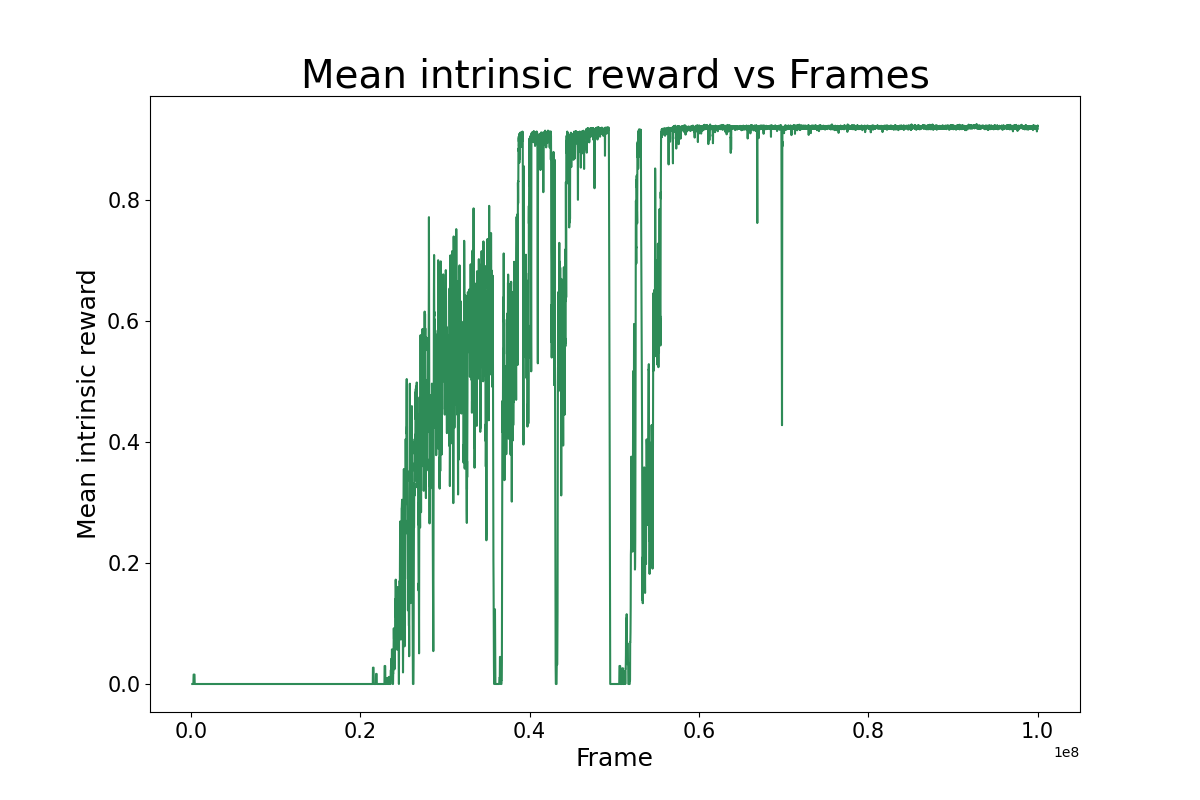
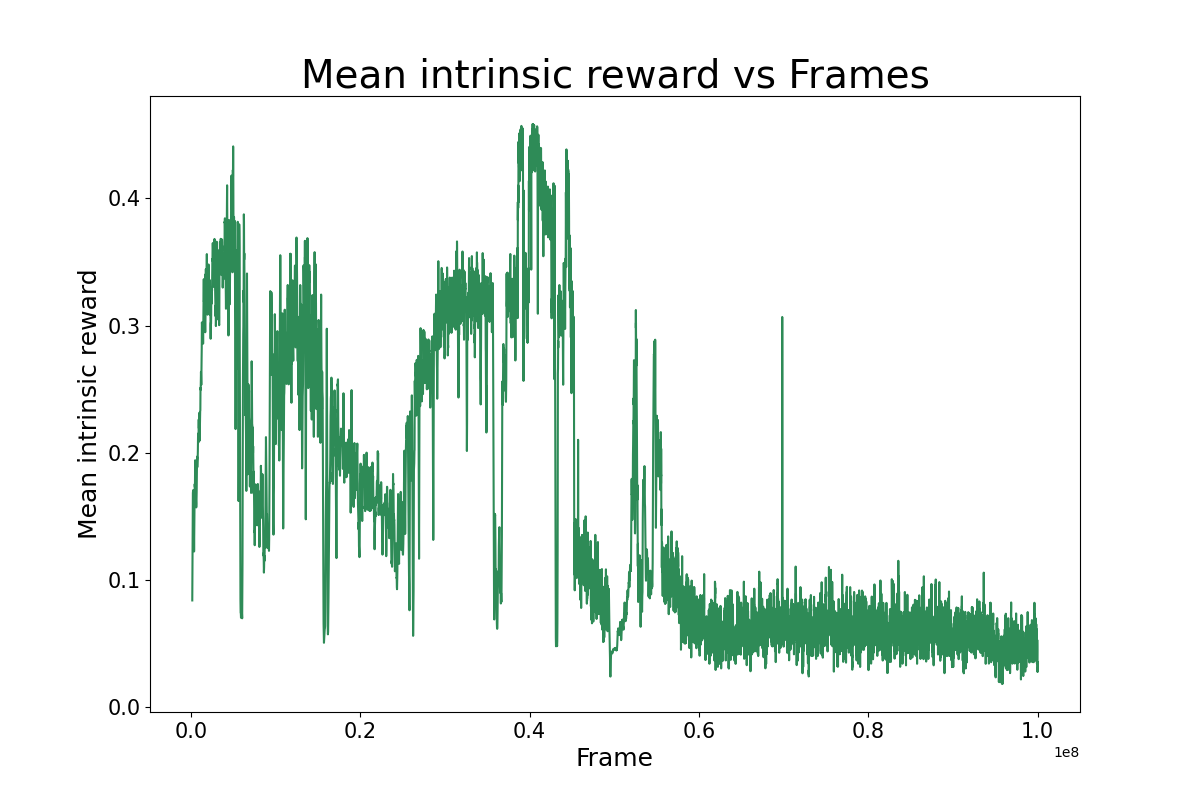
plot fixed and new results

diff --git a/plot_util.py b/plot_util.py
@@ -82,7 +82,7 @@ print('Saved results to {}{}_window{}.png'.format(plots_dir, env_dict[env], wind
 if plot_extras:
     current_target = current_target[1].to_numpy()
     generator_rewards = generator_rewards[1].to_numpy()
-    mean_intrinsic_reward = mean_episode_return[1].to_numpy()
+    mean_intrinsic_reward = mean_intrinsic_reward[1].to_numpy()
 
     # Remove nans
     frames_not_nan = frames[0][~np.isnan(current_target)]
